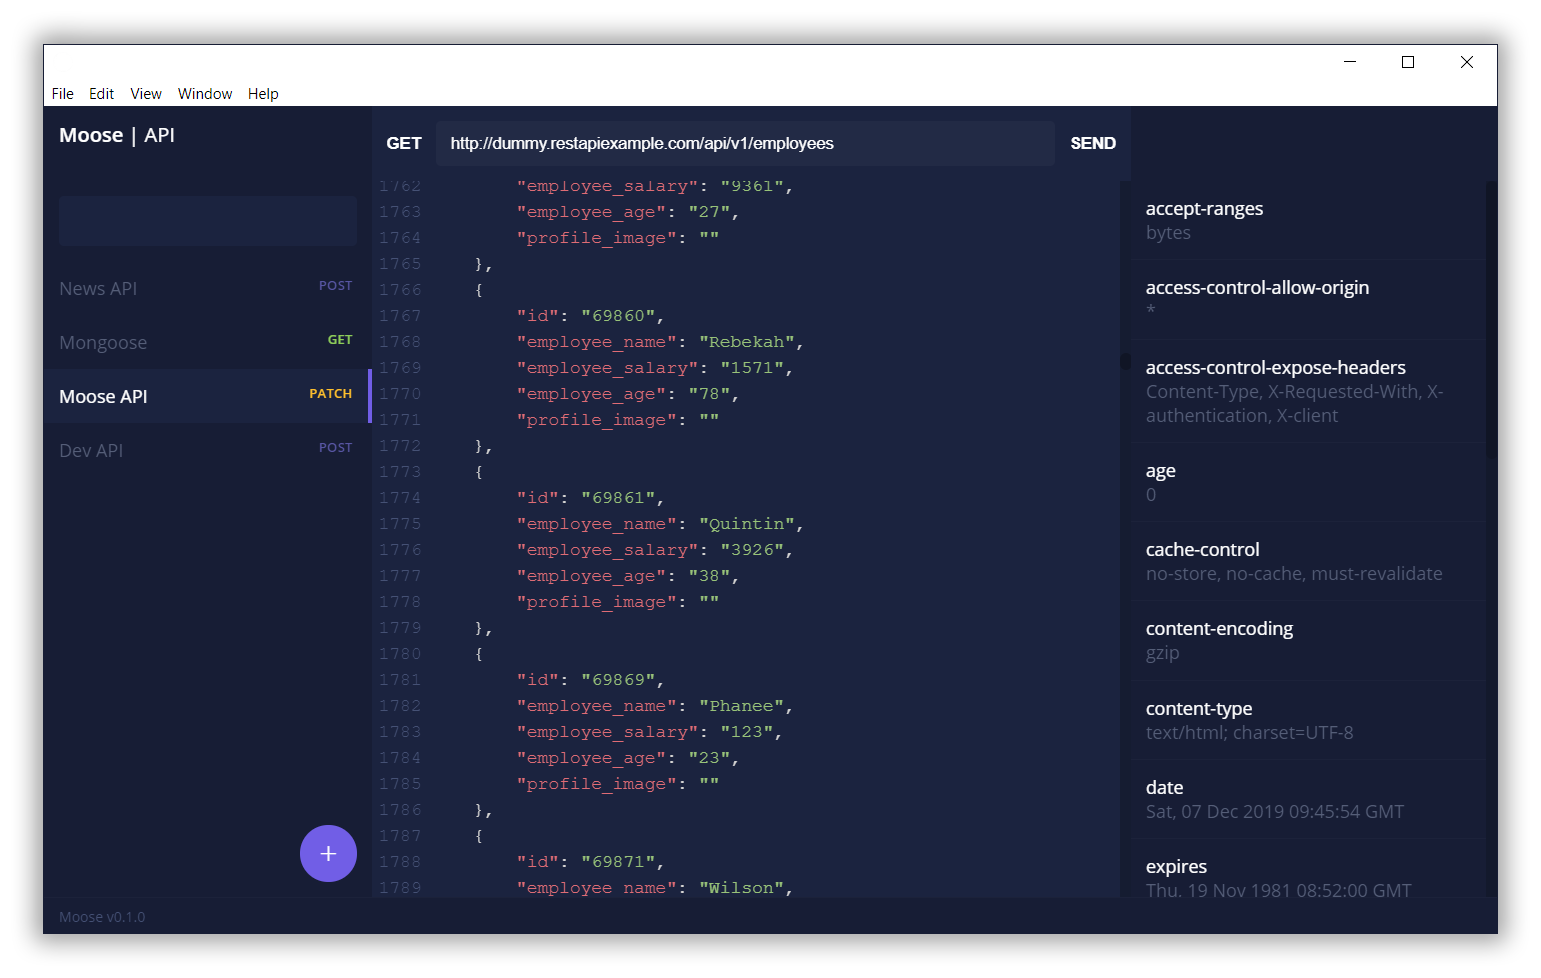
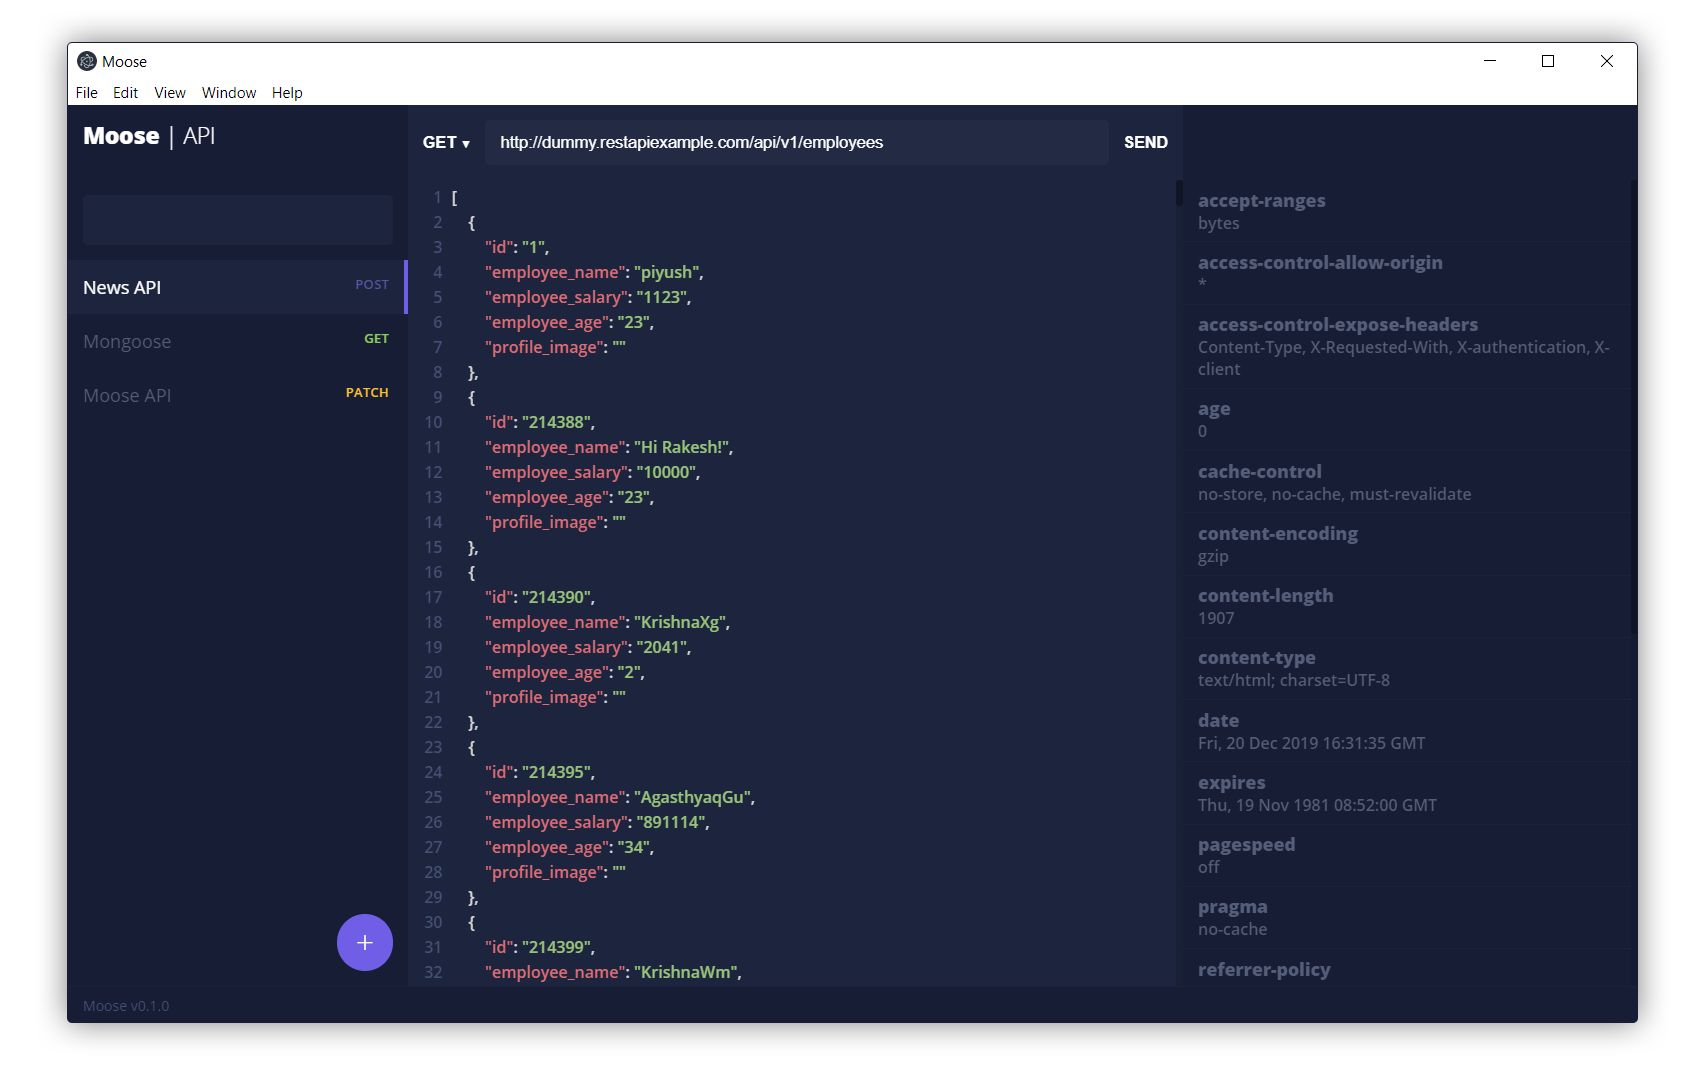
new image

diff --git a/src/components/app/app.js b/src/components/app/app.js
@@ -46,7 +46,8 @@ class App extends React.Component {
   constructor() {
     super();
     this.state = {
-      "requests": [{
+      selectedTabIndex: 0,
+      requests: [{
         "title": "News API",
         "method": "POST",
         "url": "google.com",
@@ -59,10 +60,14 @@ class App extends React.Component {
         "method": "PATCH",
         "url": "google.com",
       }]
+
     }
 
     this.setMethod = this.setMethod.bind(this)
     this.setProperty = this.setProperty.bind(this)
+
+    this.setTab = this.setTab.bind(this);
+
   }
 
   setMethod(m) {
@@ -74,11 +79,18 @@ class App extends React.Component {
     this.setState({ properties: props })
   }
 
+  setTab() {
+    this.setState({
+      selectedPos: 1
+    })
+    alert("dev")
+  }
+
   render() {
     return (
       <div className="main">
         <div className="pane-container">
-          <SidePane resizeHandler={resize} colors={this.colors} requests={this.state.requests} />
+          <SidePane resizeHandler={resize} colors={this.colors} setTab={this.setTab} selectedPos={this.state.selectedTabIndex} requests={this.state.requests} />
           <MainPane propertyHandler={this.setProperty} data={this.state} />
           <SecondaryPane properties={this.state.properties} resizeHandler={resize} />
         </div>

diff --git a/src/components/side-pane/side-pane.js b/src/components/side-pane/side-pane.js
@@ -47,7 +47,7 @@ class SidePane extends React.Component {
                     <div className="search-container">
                         <input className="search-bar" />
                     </div>
-                    {this.state.requests.map((request, pos) => <SidePaneTab key={pos} color={this.props.colors[request.method]} title={request.title} method={request.method} />)}
+                    {this.state.requests.map((request, pos) => <SidePaneTab onClick={this.props.setTab} selected={this.props.selectedPos == pos ? "true" : "false"} key={pos} color={this.props.colors[request.method]} title={request.title} method={request.method} />)}
                 </div>
                 <div className="floating-action-btn" onClick={this.addRequest}>+</div>
             </div>

diff --git a/src/components/main-pane/main-pane.js b/src/components/main-pane/main-pane.js
@@ -52,7 +52,7 @@ class MainPane extends React.Component {
         return (
             < div className="pane main-pane" >
                 <div className="pane-header">
-                    <button className="flat-btn multi-options">GET</button>
+                    <button className="flat-btn multi-options" id="method-btn">GET</button>
                     <input className="url-bar" placeholder="http://your-product/posts/1" value={this.state.url} onChange={this.setUrl} />
                     <button className="flat-btn" onClick={this.load}>SEND</button>
                 </div>

diff --git a/src/components/side-pane/side-pane-tab/side-pane-tab.js b/src/components/side-pane/side-pane-tab/side-pane-tab.js
@@ -2,8 +2,10 @@ import React from 'react';
 import './side-pane-tab.css'
 
 function SidePaneTab(props) {
+
+    var tabClass = props.selected == "true" ? "side-pane-tab side-pane-tab--selected" : "side-pane-tab";
     return (
-        <div className="side-pane-tab">
+        <div className={tabClass}>
             <div className="side-pane-tab-title">
                 {props.title}
             </div>

diff --git a/public/index.html b/public/index.html
@@ -24,7 +24,7 @@
       work correctly both with client-side routing and a non-root public URL.
       Learn how to configure a non-root public URL by running `npm run build`.
     -->
-    <title>React App</title>
+    <title>Moose</title>
   </head>
   <body>
     <noscript>You need to enable JavaScript to run this app.</noscript>

diff --git a/src/components/main-pane/main-pane.css b/src/components/main-pane/main-pane.css
@@ -38,5 +38,6 @@
     margin: var(--padding-medium);
     cursor: pointer;
     font-weight: 600;
+    font-size: 0.8em;
     transition: background 0.2s ease;
 }

diff --git a/src/scrollbars.css b/src/scrollbars.css
@@ -6,7 +6,7 @@
   
   /* Track */
   ::-webkit-scrollbar-track {
-    background: #10152585;
+    background: #10152550;
   }
    
   /* Handle */
